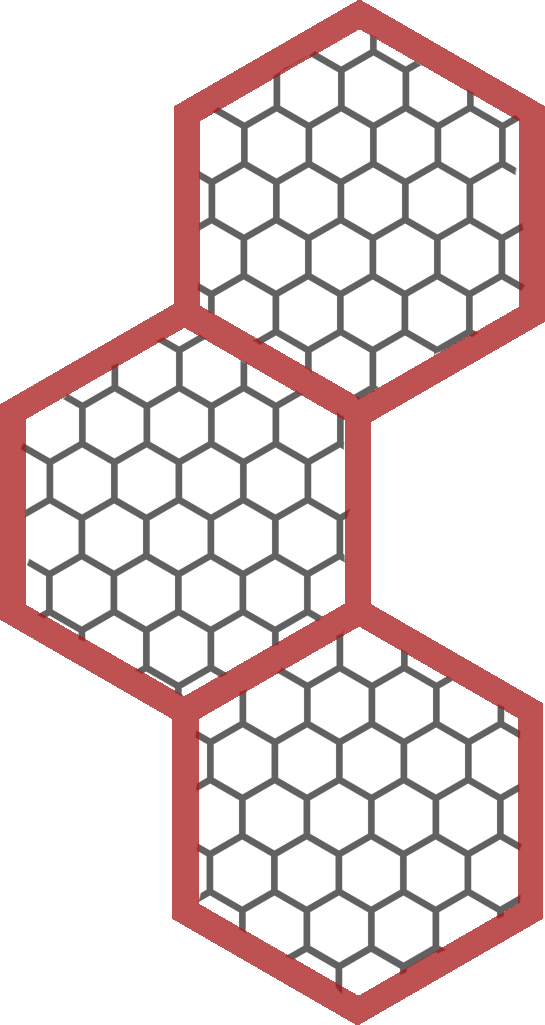
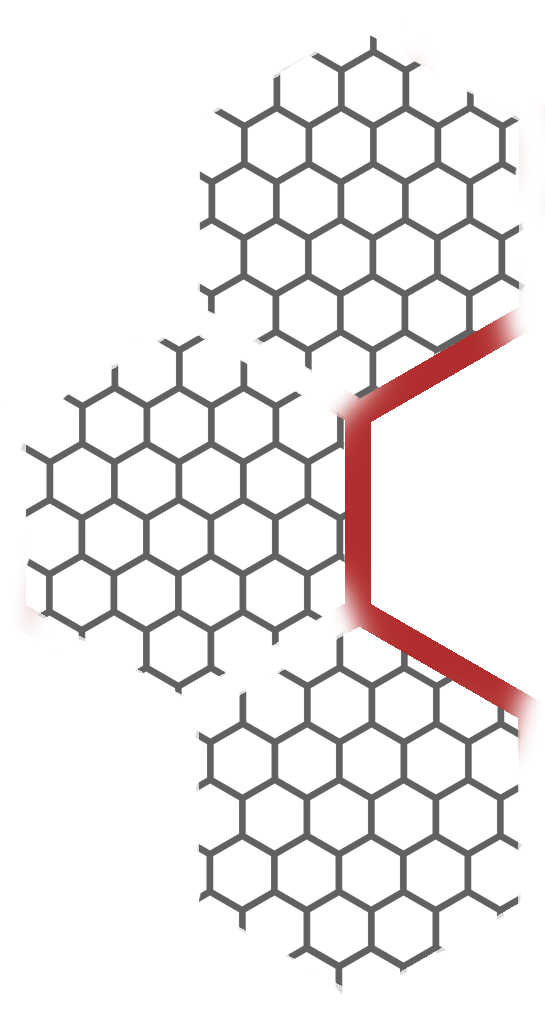
Stylized projects page. jQuery width for h1 tags not equalling what browser sets. This is breaking the page's style.

Changed region(s): [[0.0, 0.0, 1.0, 1.0]]

diff --git a/ProjectsPage/Projects.html b/ProjectsPage/Projects.html
@@ -73,59 +73,98 @@
       </div>
 
       <div class="content_wrapper">
+
+          <div class="clear_both"></div>
+
           <div class="project_wrapper" id="server">
-	      <div class="title">
-		  <img class="leftbrace" src="">
-		  <h1>CentOS Server</h1>
-		  <img class="rightbrace" src="">
+              <div class="graphic" id="server_graphic">
+                  <div class="title">
+                      <img class="leftbrace" src="/Website/Static Assets/Hexagon/Text Highlight4.png">
+
+                      <h1 class="project_title">CentOS Server</h1>
+
+                      <img class="rightbrace" src="/Website/Static Assets/Hexagon/Text Highlight5.png">
+                  </div>
+
+                  <ul class="skill_list">
+                      <li>Linux</li>
+
+                      <li>Server Security</li>
+
+                      <li>Apache</li>
+                  </ul>
+
+              </div>
+
+              <p class="server_desc">
+                  Lorem ipsum dolor sit amet, consectetuer adipiscing elit. Aenean commodo ligula eget dolor. Aenean massa. Cum sociis natoque penatibus et magnis dis parturient montes, nascetur ridiculus mus. Donec quam felis, ultricies nec, pellentesque eu, pretium quis, sem. Nulla consequat massa quis enim. Donec pede justo, fringilla vel, aliquet nec, vulputate eget, arcu. In enim justo, rhoncus ut, imperdiet a, venenatis vitae, justo. Nullam dictum felis eu pede mollis pretium. Integer tincidunt. Cras dapibus. Vivamus elementum semper nisi. Aenean vulputate eleifend tellus. Aenean leo ligula, porttitor eu, consequat vitae, eleifend ac, enim. Aliquam lorem ante, dapibus in, viverra quis, feugiat a, tellus. Phasellus viverra nulla ut metus varius laoreet. Quisque rutrum. Aenean imperdiet. Etiam ultricies nisi vel augue. Curabitur ullamcorper ultricies nisi. Nam eget dui. Etiam rhoncus. Maecenas tempus, tellus eget condimentum rhoncus, sem quam semper libero, sit amet adipiscing sem neque sed ipsum. Nam quam nunc, blandit vel, luctus pulvinar, hendrerit id, lorem. Maecenas nec odio et ante tincidunt tempus. Donec vitae sapien ut libero venenatis faucibus. Nullam quis ante. Etiam sit amet orci eget eros faucibus tincidunt. Duis leo. Sed fringilla mauris sit amet nibh. Donec sodales sagittis magna. Sed consequat, leo eget bibendum sodales, augue velit cursus nunc,
+	          </p>
+
 	      </div>
 
-	      <ul class="skill_list">
-		  <li>Linux</li>
-		  <li>Server Security</li>
-		  <li>Apache</li>
-	      </ul>
+          <div class="clear_both"></div>
 
-	      <p class="server_desc">
-	      </p>
-	  </div>
+	      <div class="project_wrapper" id="website">
 
-	  <div class="project_wrapper" id="website">
-	      <div class="title">
-		  <img class="leftbrace" src="">
-		  <h1>kylelangendoen.com</h1>
-		  <img class="rightbrace" src="">
+              <div class="graphic" id="web_graphic">
+
+                  <div class="title">
+                      <img class="leftbrace" src="/Website/Static Assets/Hexagon/Text Highlight4.png">
+
+                      <h1 class="project_title">kylelangendoen.com</h1>
+
+                      <img class="rightbrace" src="/Website/Static Assets/Hexagon/Text Highlight5.png">
+                  </div>
+
+                  <ul class="skill_list">
+                      <li>Javascript</li>
+
+                      <li>jQuery</li>
+
+                      <li>HTML</li>
+
+                      <li>CSS</li>
+                  </ul>
+
+              </div>
+
+              <p class="site_desc">
+                  Lorem ipsum dolor sit amet, consectetuer adipiscing elit. Aenean commodo ligula eget dolor. Aenean massa. Cum sociis natoque penatibus et magnis dis parturient montes, nascetur ridiculus mus. Donec quam felis, ultricies nec, pellentesque eu, pretium quis, sem. Nulla consequat massa quis enim. Donec pede justo, fringilla vel, aliquet nec, vulputate eget, arcu. In enim justo, rhoncus ut, imperdiet a, venenatis vitae, justo. Nullam dictum felis eu pede mollis pretium. Integer tincidunt. Cras dapibus. Vivamus elementum semper nisi. Aenean vulputate eleifend tellus. Aenean leo ligula, porttitor eu, consequat vitae, eleifend ac, enim. Aliquam lorem ante, dapibus in, viverra quis, feugiat a, tellus. Phasellus viverra nulla ut metus varius laoreet. Quisque rutrum. Aenean imperdiet. Etiam ultricies nisi vel augue. Curabitur ullamcorper ultricies nisi. Nam eget dui. Etiam rhoncus. Maecenas tempus, tellus eget condimentum rhoncus, sem quam semper libero, sit amet adipiscing sem neque sed ipsum. Nam quam nunc, blandit vel, luctus pulvinar, hendrerit id, lorem. Maecenas nec odio et ante tincidunt tempus. Donec vitae sapien ut libero venenatis faucibus. Nullam quis ante. Etiam sit amet orci eget eros faucibus tincidunt. Duis leo. Sed fringilla mauris sit amet nibh. Donec sodales sagittis magna. Sed consequat, leo eget bibendum sodales, augue velit cursus nunc,
+	          </p>
+
 	      </div>
 
-	      <ul class="skill_list">
-		  <li>Javascript</li>
-		  <li>jQuery</li>
-		  <li>HTML</li>
-		  <li>CSS</li>
-	      </ul>
+          <div class="clear_both"></div>
 
-	      <p class="site_desc">
-	      </p>
-	  </div>
+	      <div class="projects_wrapper" id="gameof_life">
 
-	  <div class="projects_wrapper" id="gameof_life">
-	      <div class="title">
-		  <img class="leftbrace" src="">
-		  <h1>Game of Life</h1>
-		  <img class="rightbrace" src="">
+	          <div class="graphic" id="gol_graphic">
+
+                  <div class="title">
+                      <img class="leftbrace" src="/Website/Static Assets/Hexagon/Text Highlight4.png">
+
+                      <h1 class="project_title">Game of Life</h1>
+
+                      <img class="rightbrace" src="/Website/Static Assets/Hexagon/Text Highlight5.png">
+                  </div>
+
+                  <ul class="skill_list">
+                      <li>Basic OOP</li>
+                      <li>Java</li>
+                      <li>Javascript</li>
+                      <li>jQuery</li>
+                  </ul>
+
+              </div>
+
+              <p class="gol_desc">
+                  Lorem ipsum dolor sit amet, consectetuer adipiscing elit. Aenean commodo ligula eget dolor. Aenean massa. Cum sociis natoque penatibus et magnis dis parturient montes, nascetur ridiculus mus. Donec quam felis, ultricies nec, pellentesque eu, pretium quis, sem. Nulla consequat massa quis enim. Donec pede justo, fringilla vel, aliquet nec, vulputate eget, arcu. In enim justo, rhoncus ut, imperdiet a, venenatis vitae, justo. Nullam dictum felis eu pede mollis pretium. Integer tincidunt. Cras dapibus. Vivamus elementum semper nisi. Aenean vulputate eleifend tellus. Aenean leo ligula, porttitor eu, consequat vitae, eleifend ac, enim. Aliquam lorem ante, dapibus in, viverra quis, feugiat a, tellus. Phasellus viverra nulla ut metus varius laoreet. Quisque rutrum. Aenean imperdiet. Etiam ultricies nisi vel augue. Curabitur ullamcorper ultricies nisi. Nam eget dui. Etiam rhoncus. Maecenas tempus, tellus eget condimentum rhoncus, sem quam semper libero, sit amet adipiscing sem neque sed ipsum. Nam quam nunc, blandit vel, luctus pulvinar, hendrerit id, lorem. Maecenas nec odio et ante tincidunt tempus. Donec vitae sapien ut libero venenatis faucibus. Nullam quis ante. Etiam sit amet orci eget eros faucibus tincidunt. Duis leo. Sed fringilla mauris sit amet nibh. Donec sodales sagittis magna. Sed consequat, leo eget bibendum sodales, augue velit cursus nunc,
+	          </p>
+
 	      </div>
 
-	      <ul class="skill_list">
-		  <li>Basic OOP</li>
-		  <li>Java</li>
-	          <li>Javascript</li>
-		  <li>jQuery</li>
-	      </ul>
+          <div class="clear_both"></div>
 
-	      <p class="gof_desc">
-	      </p>
-
-	  </div>
       </div>
 
       <script src="../jquery-1.11.0.js"></script>

diff --git a/ProjectsPage/Projects.css b/ProjectsPage/Projects.css
@@ -1,91 +1,52 @@
-body{
-  background-image: url('../Static Assets/Background.jpg');
-  background-repeat: no-repeat;
-  font-family: "Nova Square";
-}
+body{ background-image: url('../Static Assets/Background.jpg'); background-repeat: no-repeat; font-family: "Nova Square"; }
 
-.body_wrapper{
-  width: 730px;
-  position: relative;
-  margin: 0 auto;
-}
 
-.blog_title{
-  top: -20px;
-  position: relative;
-  margin: 0 auto;
-  font-size: 50pt;
-  text-align: center;
-  color: #FFFFFF;
-}
 
-.title{
-  margin-top: 25px;
-  font-size: 32pt;
-  color: #A81818;
-}
+/*Banner Items*/
+.banner_wrapper{ position: relative; margin: 0px auto 30px auto; top: -8px; width: 650px; height: 39px; background-image: url("../Static Assets/Banner/Long Banner.png"); background-size: cover; background-repeat: no-repeat; }
+.banner_item{ width: 80px; height: 85px; float: right; }
+.icon{ height: 30px; width: 35px; position: relative; margin: 0 auto; }
+.icon_text{ display: none; color: #FFFFFF; text-align: center; }
 
-.content{
-  color: #CCCCC1;
-  padding: 0px 10px;
-  width: 580px;
-  float: right;
-}
 
-.content_wrapper{
-  position: relative;
-  margin: 0 auto;
-}
 
-.date{
-  margin: 0px 15px;
-  width: 100px;
-  height: 115px;
-  float: left;
-}
 
-.date_day{
-  color: #FFFFFF;
-  text-align: center;
-  font-size: 12pt;
-}
+.content_wrapper{ position:relative; width:1200px; margin: 0 auto; }
 
-.date_time{
-  color: #CCCCC1;
-  text-align: left;
-  font-size: 12pt;
-}
 
-.banner_wrapper{
-  position: relative;
-  margin: 0px auto 30px auto;
-  top: -8px;
-  width: 650px;
-  height: 39px;
-  background-image: url("../Static Assets/Banner/Long Banner.png");
-  background-size: cover;
-  background-repeat: no-repeat;
-}
 
-.banner_item{
-  width: 80px;
-  height: 85px;
-  float: right;
-}
 
-.icon{
-  height: 30px;
-  width: 35px;
-  position: relative;
-  margin: 0 auto;
-}
+.graphic{ position:relative; float:left; }
 
-.icon_text{
-  display: none;
-  color: #FFFFFF;
-  text-align: center;
-}
 
-.clear_both{
-  clear:both;
-}
+
+
+/*Title Items*/
+.title{ color:#FFFFFF; }
+.project_title{ position:relative; float:left; margin: 68px -15px; }
+
+
+
+
+/*Left/Right braces*/
+.leftbrace{ position:relative; float:left; width:90px; height:180px; }
+.rightbrace{ position:relative; float:left; width:90px; height:180px; }
+
+
+
+
+.skill_list{ position:relative; float:left; list-style-image:none; }
+li{ color:#A81818; font-size:14pt; }
+
+
+
+
+/*Descriptions*/
+.server_desc{ position:relative; float:left; width:50%; margin: 1em 2em; color:#CCCCC1; }
+.site_desc{ position:relative; float:left; width:50%; margin: 1em 2em; color:#CCCCC1; }
+.gol_desc{ position:relative; float:left; width:50%; margin: 1em 2em; color:#CCCCC1; }
+
+
+
+
+.clear_both{ clear:both; }

diff --git a/ProjectsPage/Projects.js b/ProjectsPage/Projects.js
@@ -1,6 +1,14 @@
 $(document).ready(function () {
   "Use Strict";
 
+  var graphics = [$("#server_graphic"), $("#web_graphic"), $("#gol_graphic")];
+  var horiz;
+
+  for(var k = 0; k < graphics.length; k++){
+    horiz = 2 * graphics[k].find(".leftbrace").width() + graphics[k].find(".project_title").width();
+    graphics[k].width(horiz);
+  }
+
   //Equally space the banner items
   var banner = $(".banner_wrapper");
   var icon = [$("#facebook"), $("#github"), $("#resume"), $("#linkedin"), $("#home")];
